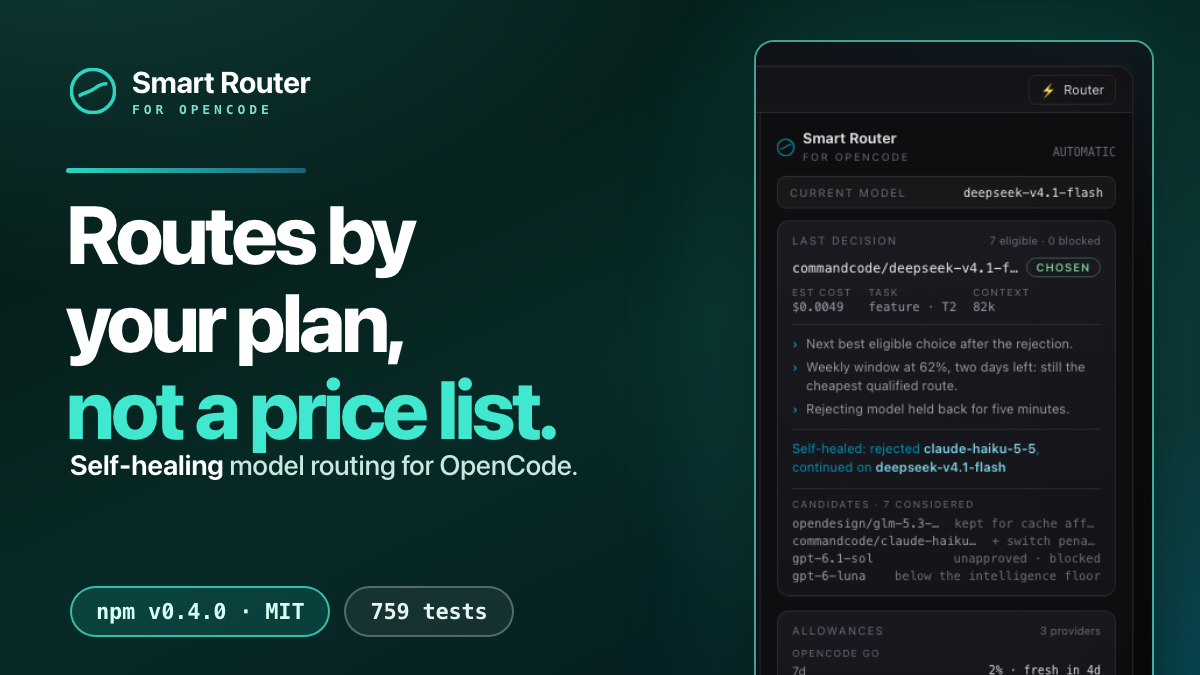
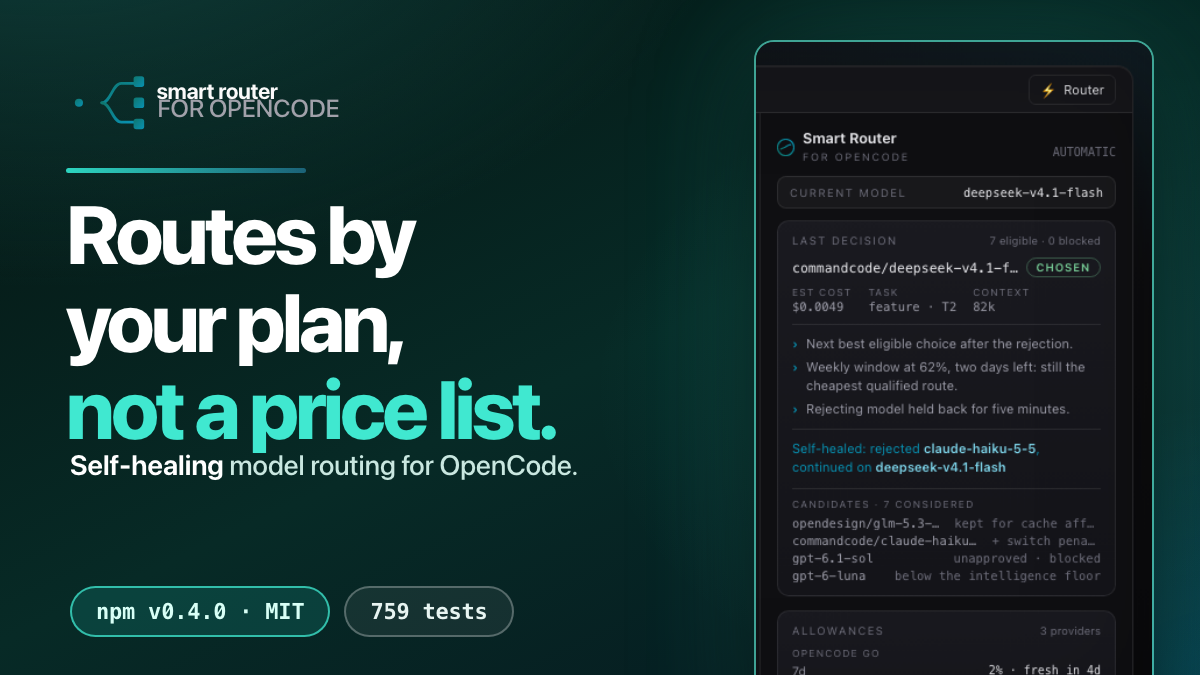
og card: real brand lockup in the poster

Changed region(s): [[0.0617, 0.0933, 0.2775, 0.1867]]

diff --git a/assets/og-card.html b/assets/og-card.html
@@ -53,13 +53,34 @@
 </head>
 <body>
   <div class="halo"></div>
-  <div class="brand">
-    <svg class="mark" viewBox="0 0 32 32"><circle cx="16" cy="16" r="15" fill="none" stroke="#2DD4BF" stroke-width="2.5"/><path d="M7 19c3-2 6-2 9-4s5-4 9-4" fill="none" stroke="#2DD4BF" stroke-width="2.5" stroke-linecap="round"/></svg>
-    <span class="wm">
-      <span class="n">Smart Router</span><br>
-      <span class="s">FOR OPENCODE</span>
-    </span>
-  </div>
+  <div class="brand"><svg width="300" height="77.6" viewBox="0 0 340 88" role="img" aria-label="OpenCode Smart Router">
+  <defs>
+    <linearGradient id="g" x1="0" y1="0" x2="1" y2="1">
+      <stop offset="0%" stop-color="#0f766e"/>
+      <stop offset="100%" stop-color="#0891b2"/>
+    </linearGradient>
+  </defs>
+  <style>
+    .word { fill: #fafafa; }
+    .sub  { fill: #8fd5c9; }
+    
+      .sub  { fill: #a1a1aa; }
+    }
+  </style>
+  <g fill="none" stroke="url(#g)" stroke-width="3.2" stroke-linecap="round">
+    <path d="M14 44h22"/>
+    <path d="M36 44c10 0 12-22 22-22h14"/>
+    <path d="M36 44c10 0 12 22 22 22h14"/>
+    <path d="M36 44h36"/>
+  </g>
+  <circle cx="10" cy="44" r="4.6" fill="url(#g)"/>
+  <g fill="url(#g)">
+    <rect x="72" y="14" width="12" height="12" rx="3"/>
+    <rect x="72" y="38" width="12" height="12" rx="3"/>
+    <rect x="72" y="62" width="12" height="12" rx="3"/>
+  </g>
+  <text x="98" y="40" font-family="-apple-system,BlinkMacSystemFont,'Segoe UI',Helvetica,Arial,sans-serif" font-size="25" font-weight="700" class="word" letter-spacing="-0.6">smart router</text>
+  <text x="99" y="60" font-family="-apple-system,BlinkMacSystemFont,'Segoe UI',Helvetica,Arial,sans-serif" font-size="12.5" font-weight="500" class="sub" letter-spacing="1.1">FOR OPENCODE</text></svg></div>
   <div class="npmridgetop"></div>
   <div class="headline">
     <div class="l">Routes by</div>
